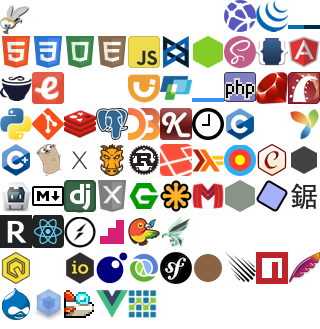
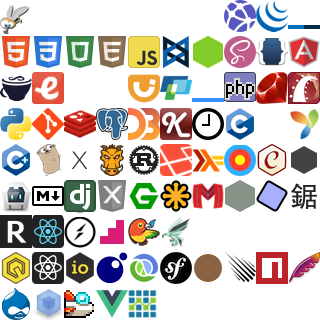
added styles for iojs and react native

Changed region(s): [[0.0938, 0.7599, 0.2188, 0.8815]]

diff --git a/public/css/sidebar-menu.css b/public/css/sidebar-menu.css
@@ -257,6 +257,9 @@
 .docsets-ioJS:before {
     background-position: -2rem -6.3rem;
 }
+.docsets-React-native:before {
+    background-position: -1rem -6.3rem;
+}
 @media (-webkit-min-device-pixel-ratio: 1.5), (min-resolution: 144dpi) {
     .docset-icon:before{
         background-image: url('../img/docsets@2x.png');
